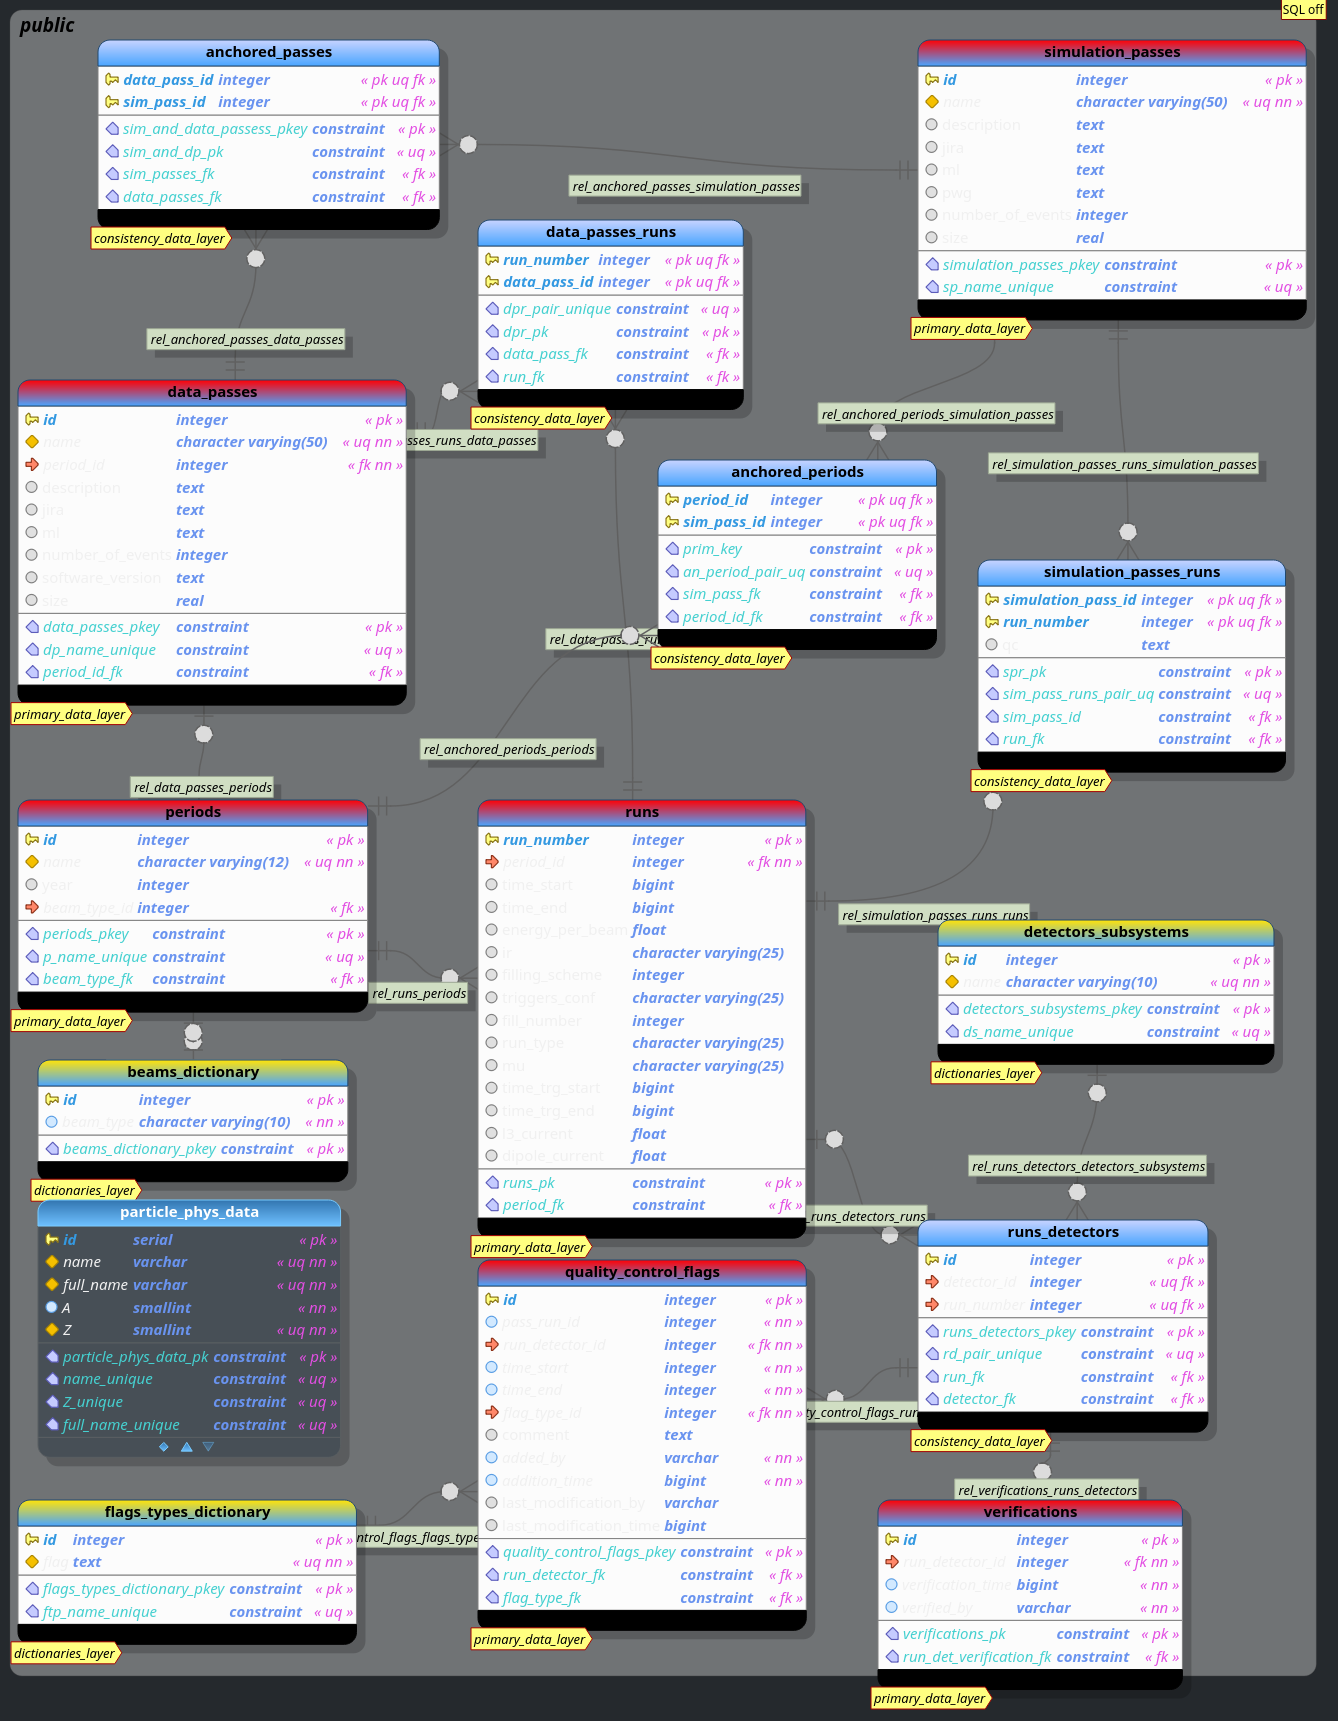
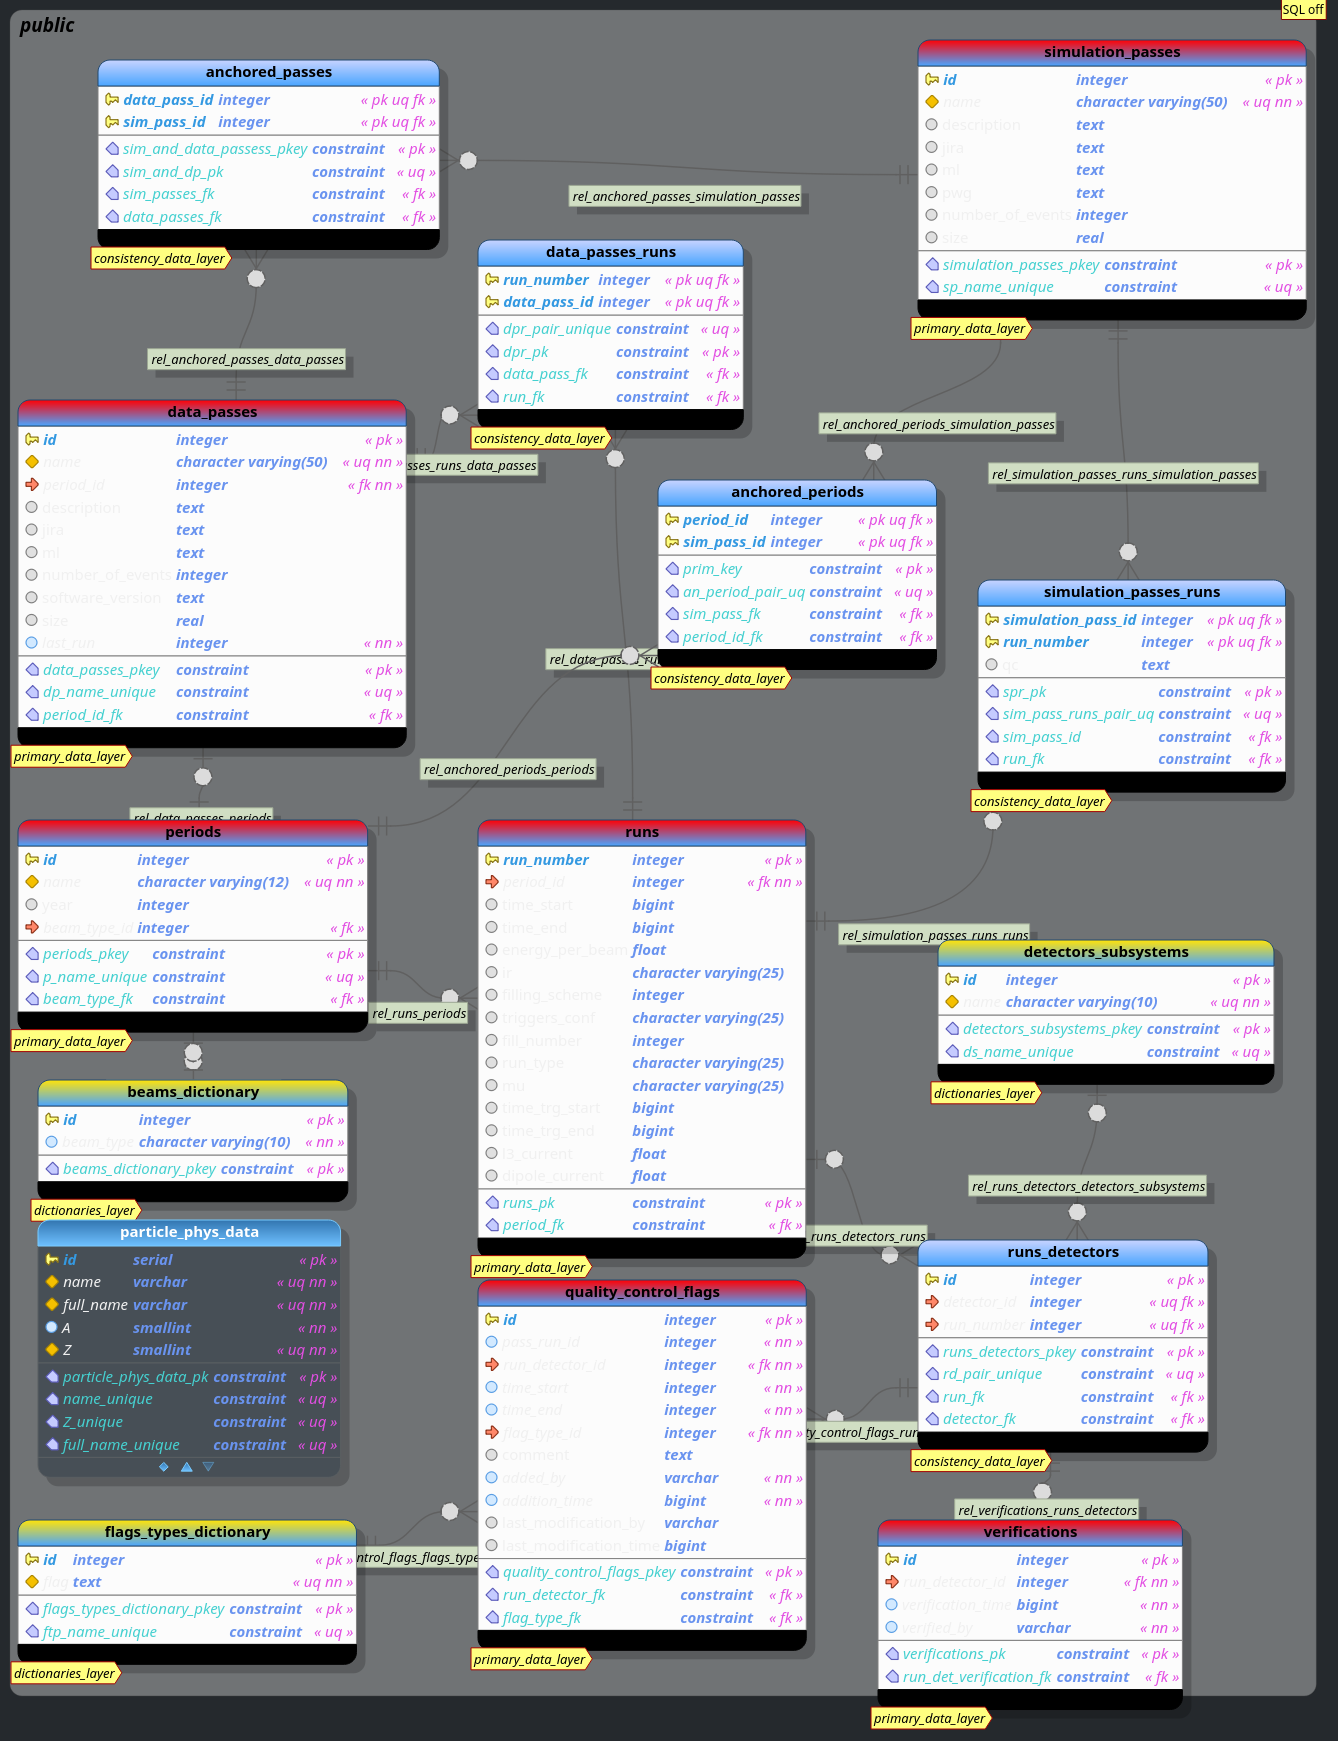
Reduce pressure on Monalisa and logs (#96)

Changed region(s): [[0.0, 0.0, 0.9806, 0.9855], [0.7048, 0.308, 0.9806, 0.4927], [0.6741, 0.0308, 0.7048, 0.0616]]

diff --git a/app/lib/alimonitor-services/AbstractServiceSynchronizer.js b/app/lib/alimonitor-services/AbstractServiceSynchronizer.js
@@ -19,6 +19,7 @@ const { Log } = require('@aliceo2/web-ui');
 const config = require('../config/configProvider.js');
 const ResProvider = require('../ResProvider.js');
 const Utils = require('../Utils.js');
+const JsonsFetcher = require('./JsonsFetcher.js');
 const Cacher = require('./Cacher.js');
 
 const defaultServiceSynchronizerOptions = {
@@ -42,6 +43,7 @@ class PassCorrectnessMonitor {
         this.errorsLoggingDepth = errorsLoggingDepth;
         this.correct = 0;
         this.incorrect = 0;
+        this.omitted = 0;
         this.errors = [];
     }
 
@@ -55,17 +57,21 @@ class PassCorrectnessMonitor {
         this.errors.push(e);
     }
 
+    handleOmitted() {
+        this.omitted++;
+    }
+
     logResults() {
-        const { correct, incorrect, errors, errorsLoggingDepth, logger } = this;
-        const dataSize = incorrect + correct;
+        const { correct, incorrect, omitted, errors, errorsLoggingDepth, logger } = this;
+        const dataSize = incorrect + correct + omitted;
 
         if (incorrect > 0) {
             const logFunc = Utils.switchCase(errorsLoggingDepth, config.errorsLoggingDepths);
             errors.forEach((e) => logFunc(logger, e));
             logger.warn(`sync unseccessful for ${incorrect}/${dataSize}`);
         }
-        if (correct > 0) {
-            logger.info(`sync successful for  ${correct}/${dataSize}`);
+        if (omitted > 0) {
+            logger.info(`omitted data units ${omitted}/${dataSize}`);
         }
     }
 }
@@ -182,12 +188,18 @@ class AbstractServiceSynchronizer {
             }
             const data = responsePreprocess(rawResponse)
                 .map((r) => dataAdjuster(r))
-                .filter((r) => r && filterer(r));
+                .filter((r) => {
+                    const f = r && filterer(r);
+                    if (!f) {
+                        this.monitor.handleOmitted();
+                    }
+                    return f;
+                });
 
             if (this.batchedRequestes) {
-                this.makeBatchedRequest(data);
+                await this.makeBatchedRequest(data);
             } else {
-                this.makeSequentialRequest(data);
+                await this.makeSequentialRequest(data);
             }
             this.monitor.logResults();
         } catch (fatalError) {
@@ -202,7 +214,7 @@ class AbstractServiceSynchronizer {
     async makeBatchedRequest(data) {
         const rowsChunks = Utils.arrayToChunks(data, this.batchSize);
         for (const chunk of rowsChunks) {
-            const promises = chunk.map((dataUnit) => this.dbAction(this.dbclient, dataUnit)
+            const promises = chunk.map((dataUnit) => this.dbAction(this.dbClient, dataUnit)
                 .then(() => this.monitor.handleCorrect())
                 .catch((e) => this.monitor.handleIncorrect(e, { dataUnit: dataUnit })));
 
@@ -212,7 +224,7 @@ class AbstractServiceSynchronizer {
 
     async makeSequentialRequest(data) {
         for (const dataUnit of data) {
-            await this.dbAction(this.dbclient, dataUnit)
+            await this.dbAction(this.dbClient, dataUnit)
                 .then(this.monitor.handleCorrect)
                 .catch((e) => this.monitor.handleIncorrect(e, { dataUnit: dataUnit }));
         }
@@ -220,7 +232,8 @@ class AbstractServiceSynchronizer {
 
     async getRawResponse(endpoint) {
         if (this.useCacheJsonInsteadIfPresent && Cacher.isCached(this.name, endpoint)) {
-            this.logger.info(`using cached json :: ${Cacher.cachedFilePath(this.name, endpoint)}`);
+            // eslint-disable-next-line capitalized-comments
+            // this.logger.info(`using cached json :: ${Cacher.cachedFilePath(this.name, endpoint)}`);
             return Cacher.getJsonSync(this.name, endpoint);
         }
         const onSucces = (endpoint, data) => {
@@ -228,19 +241,19 @@ class AbstractServiceSynchronizer {
                 Cacher.cache(this.name, endpoint, data);
             }
         };
-        return await Utils.makeHttpRequestForJSON(endpoint, this.opts, this.logger, onSucces);
+        return await JsonsFetcher.makeHttpRequestForJSON(endpoint, this.opts, this.logger, onSucces);
     }
 
     async dbConnect() {
-        this.dbclient = new Client(config.database);
-        this.dbclient.on('error', (e) => this.logger.error(e));
+        this.dbClient = new Client(config.database);
+        this.dbClient.on('error', (e) => this.logger.error(e));
 
-        return await this.dbclient.connect()
+        return await this.dbClient.connect()
             .then(() => this.logger.info('database connection established'));
     }
 
     async dbDisconnect() {
-        return await this.dbclient.end()
+        return await this.dbClient.end()
             .then(() => this.logger.info('database connection ended'));
     }
 
@@ -262,7 +275,7 @@ class AbstractServiceSynchronizer {
     }
 
     isConnected() {
-        return this.dbclient?._connected;
+        return this.dbClient?._connected;
     }
 
     async restart() {

diff --git a/app/lib/alimonitor-services/MonalisaService.js b/app/lib/alimonitor-services/MonalisaService.js
@@ -33,17 +33,24 @@ class MonalisaService extends AbstractServiceSynchronizer {
             description: 'description',
             output_size: 'size',
             interaction_type: 'beam_type',
+            last_run: 'last_run',
         };
 
         this.monalisaServiceDetails = new MonalisaServiceDetails();
     }
 
-    sync() {
-        return this.syncPerEndpoint(
+    async sync() {
+        const last_runs_res = await this.dbClient.query('SELECT name, last_run from data_passes;');
+        if (! last_runs_res || ! last_runs_res.rows) {
+            this.logger.error(`Could last_runs of data_passes are ${last_runs_res}`);
+        }
+        this.last_runs = Object.fromEntries(last_runs_res.rows.map((r) => Object.values(r)));
+
+        return await this.syncPerEndpoint(
             EndpointsFormatter.dataPassesRaw(),
             this.responsePreprocess.bind(this),
             this.dataAdjuster.bind(this),
-            (r) => r.period.year >= config.dataFromYearIncluding,
+            (r) => r.period.year >= config.dataFromYearIncluding && r.last_run != this.last_runs[r.name],
             this.dbAction.bind(this),
         );
     }
@@ -79,9 +86,14 @@ class MonalisaService extends AbstractServiceSynchronizer {
             ${null},
             ${d.number_of_events},
             ${null},
-            ${d.size}
+            ${d.size},
+            ${d.last_run}
         );`;
-        return await Promise.all([dbClient.query(pgCommand), this.monalisaServiceDetails.sync(d)]);
+        const q1 = await dbClient.query(pgCommand);
+        const q2 = await this.monalisaServiceDetails.sync(d);
+        return Promise.all([q1, q2]);
+        // eslint-disable-next-line capitalized-comments
+        // return await Promise.all([dbClient.query(pgCommand), this.monalisaServiceDetails.sync(d)]);
     }
 
     extractPeriod(rowData) {

diff --git a/app/lib/alimonitor-services/MonalisaServiceMC.js b/app/lib/alimonitor-services/MonalisaServiceMC.js
@@ -69,7 +69,7 @@ class MonalisaServiceMC extends AbstractServiceSynchronizer {
         sp = Utils.filterObject(sp, this.ketpFields);
         sp.size = Number(sp.size);
 
-        const adustAnchoredOnesToList = (rawString) => Utils
+        const parseListLikeString = (rawString) => Utils
             .replaceAll(rawString, /,|'|;"/, ' ')
             .split(/ +/)
             .map((v) => v.trim())
@@ -81,8 +81,9 @@ class MonalisaServiceMC extends AbstractServiceSynchronizer {
          */
 
         sp.period = this.extractPeriod(sp);
-        sp.anchor_passes = adustAnchoredOnesToList(sp.anchor_passes);
-        sp.anchor_productions = adustAnchoredOnesToList(sp.anchor_productions);
+        sp.anchor_passes = parseListLikeString(sp.anchor_passes);
+        sp.anchor_productions = parseListLikeString(sp.anchor_productions);
+        sp.runs = parseListLikeString(sp.runs).map((s) => Number(s));
 
         return sp;
     }
@@ -111,8 +112,10 @@ class MonalisaServiceMC extends AbstractServiceSynchronizer {
             ${null},
             ${d.number_of_events},
             ${d.size}
-        );`;
-        return await Promise.all([dbClient.query(pgCommand), this.monalisaServiceMCDetails.sync(d)]);
+        ); call insert_mc_details(${d.name}, ${d.runs}::integer[], ${period.name});`;
+        return await dbClient.query(pgCommand);
+        // eslint-disable-next-line capitalized-comments
+        // return await Promise.all([dbClient.query(pgCommand), this.monalisaServiceMCDetails.sync(d)]);
     }
 
     extractPeriod(rowData) {

diff --git a/app/lib/database/views/anchored_per_mc_view.js b/app/lib/database/views/anchored_per_mc_view.js
@@ -17,15 +17,12 @@ const anchored_per_mc_view = (query) => `
             --dp.id
             dp.name,
             dp.description,
-            pt.pass_type,
             dp.jira,
             dp.ml,
             dp.number_of_events,
             dp.software_version,
             dp.size
         FROM data_passes AS dp
-        LEFT JOIN pass_types AS pt
-            ON pt.id = dp.pass_type
         INNER JOIN anchored_passes as aps
             ON aps.data_pass_id = dp.id
         INNER JOIN simulation_passes as sp

diff --git a/app/lib/alimonitor-services/MonalisaServiceDetails.js b/app/lib/alimonitor-services/MonalisaServiceDetails.js
@@ -37,6 +37,7 @@ class MonalisaServiceDetails extends AbstractServiceSynchronizer {
             (v) => Utils.adjusetObjValuesToSql(Utils.filterObject(v, this.ketpFields)),
             () => true,
             async (dbClient, v) => {
+                v.parentDataUnit = d;
                 const detailsSql = v ?
                     `call insert_prod_details(${d.name}, ${v.run_number}, ${v.period});`
                     : '';

diff --git a/app/lib/alimonitor-services/JsonsFetcher.js b/app/lib/alimonitor-services/JsonsFetcher.js
@@ -83,6 +83,7 @@ class JsonsFetcher {
                             __dirname,
                             '..',
                             '..',
+                            '..',
                             'database',
                             'cache',
                             'rawJson',
